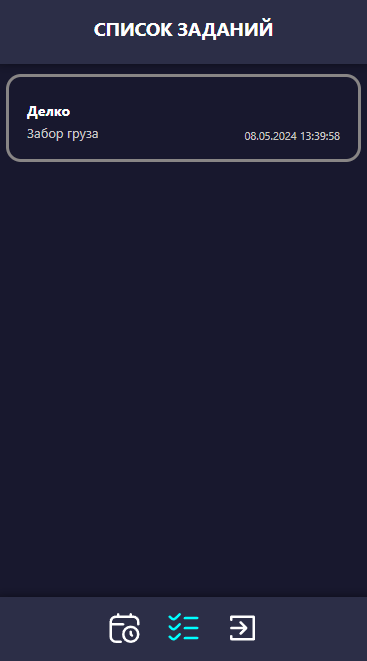
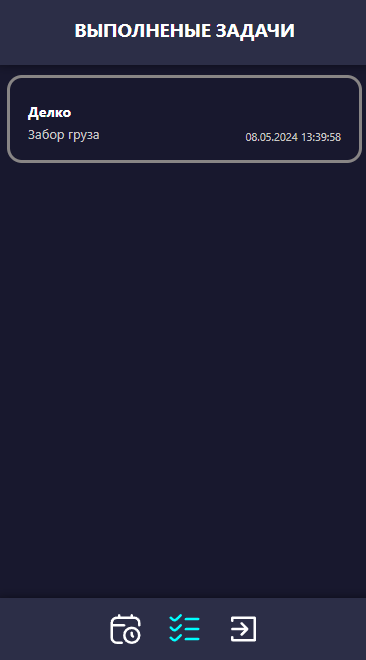
Добавлена вторая часть README.md

diff --git a/README.md b/README.md
@@ -28,9 +28,10 @@
 ![Image alt](https://github.com/Yasuoqp/Mobile-Drive-app/blob/main/imgReadme/sign-in.png)
 ![Image alt](https://github.com/Yasuoqp/Mobile-Drive-app/blob/main/imgReadme/sign-up.png)
 
-> После успешного входа или регистрации получаем token сохраняя его в localstorage и осуществляется redirect на глвную страницу  
+> - После успешного входа или регистрации получаем token сохраняя его в localstorage и осуществляется redirect на глвную страницу  
+>   + При попытке пройти на любую из страниц без `token`  осуществлеяется `redirect` на авторизацию 
 
-### 2. Список задач.
+### 2. Список задач. `current tasks`
 
 > Пользователь получает  `tasks` по токену только для даннго юзера. `Картинка № 1`
 > 
@@ -69,12 +70,24 @@
 1) ![Image alt](https://github.com/Yasuoqp/Mobile-Drive-app/blob/main/imgReadme/current-task.png) 
 2.![Image alt](https://github.com/Yasuoqp/Mobile-Drive-app/blob/main/imgReadme/task-info.png) 
 
-####
-
-
-
+### Заверщенные Задачи `completed tasks`
 
 ![Image alt](https://github.com/Yasuoqp/Mobile-Drive-app/blob/main/imgReadme/completed-task.png)
+
+> На данном этапе это все, пока ведеться просто отображение завершенных задач 
+> 
+> но функционал будет добавляться для возможности вернуть их в 'current task' 
+> Дабы узбежать случаных ошибок после завершения заказа. 
+> 
+>
+
+
+ ### Последняя кнопка на панели это выход из приложения 
+
+  - При нажатии на кнопку выхода 
+    + Срабатывает `action` для удаления токена из `localstorage`
+    + `loader` для отправки на бэк выход из системы 
+  
 
 
 Регистрация и авторизация по токену из собственно написанного бэкэнда.
